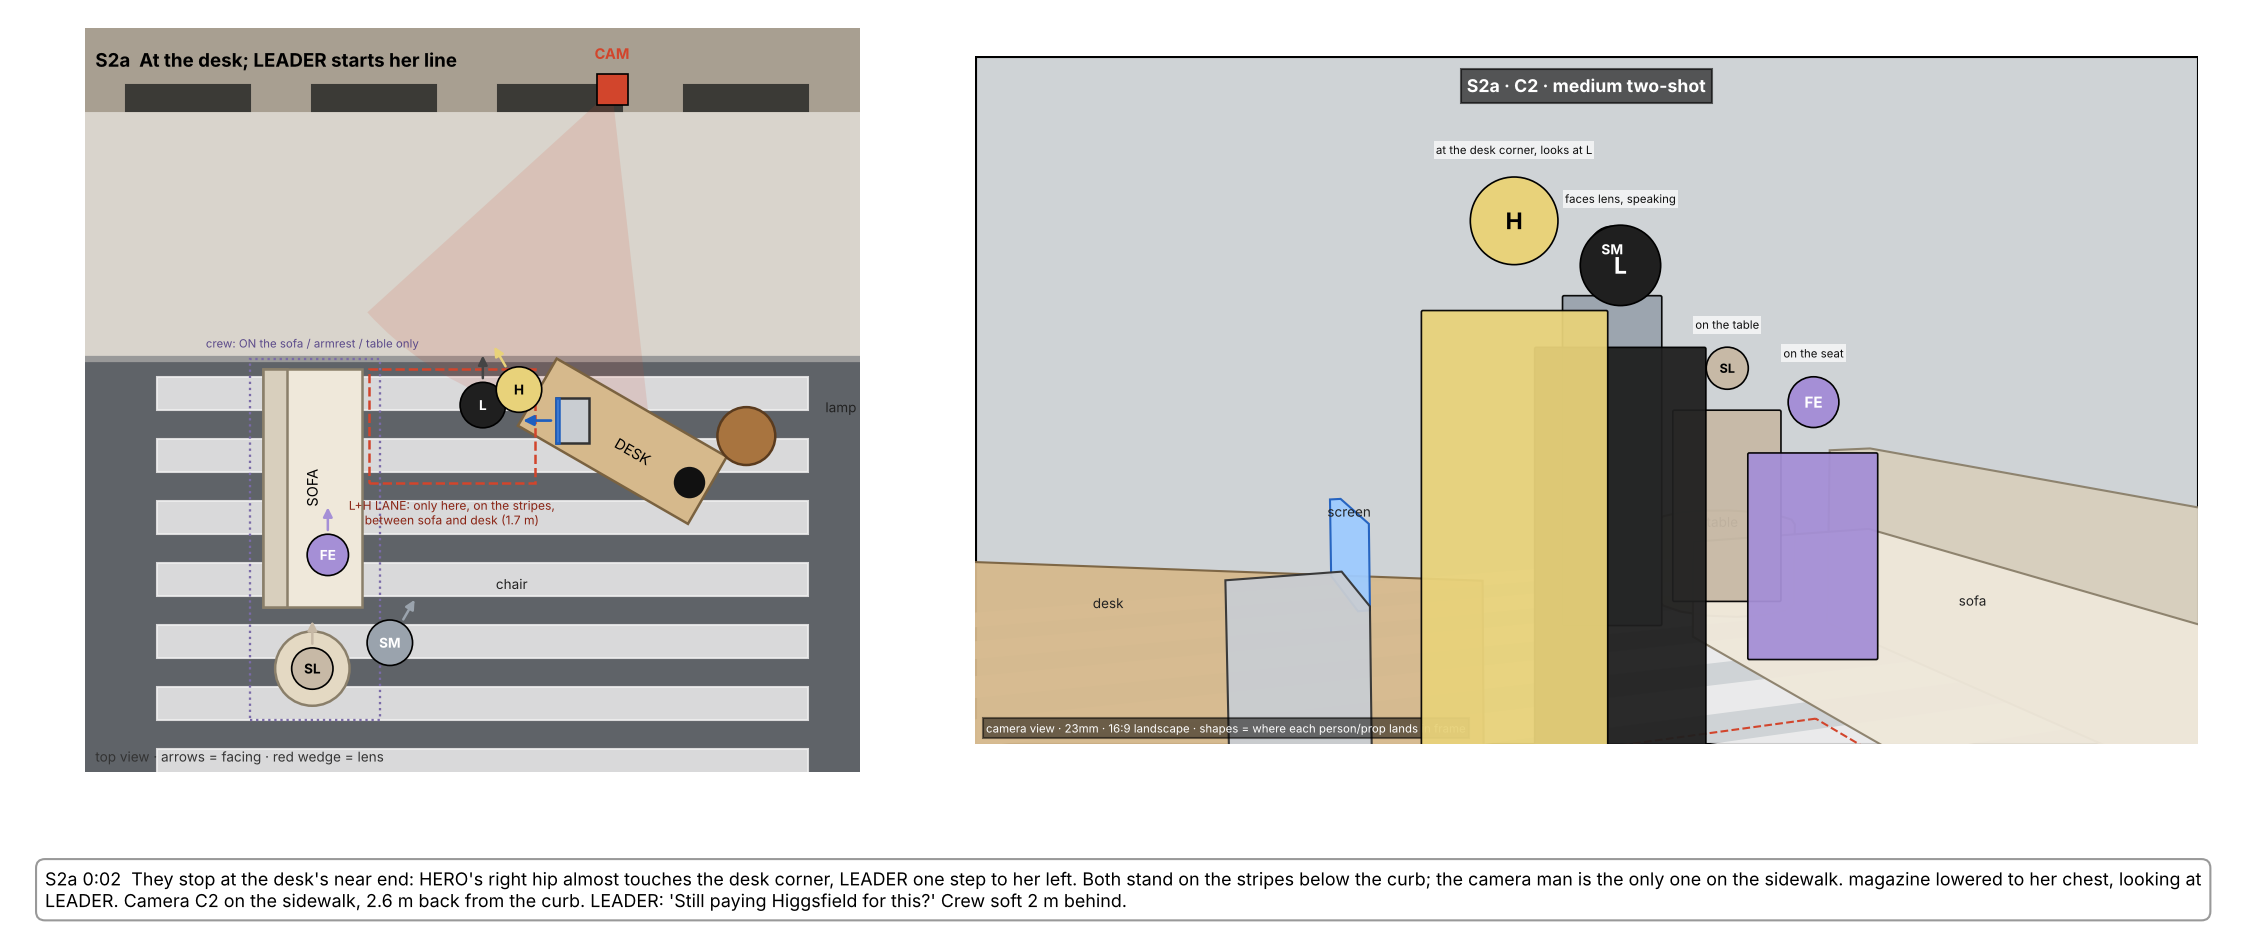
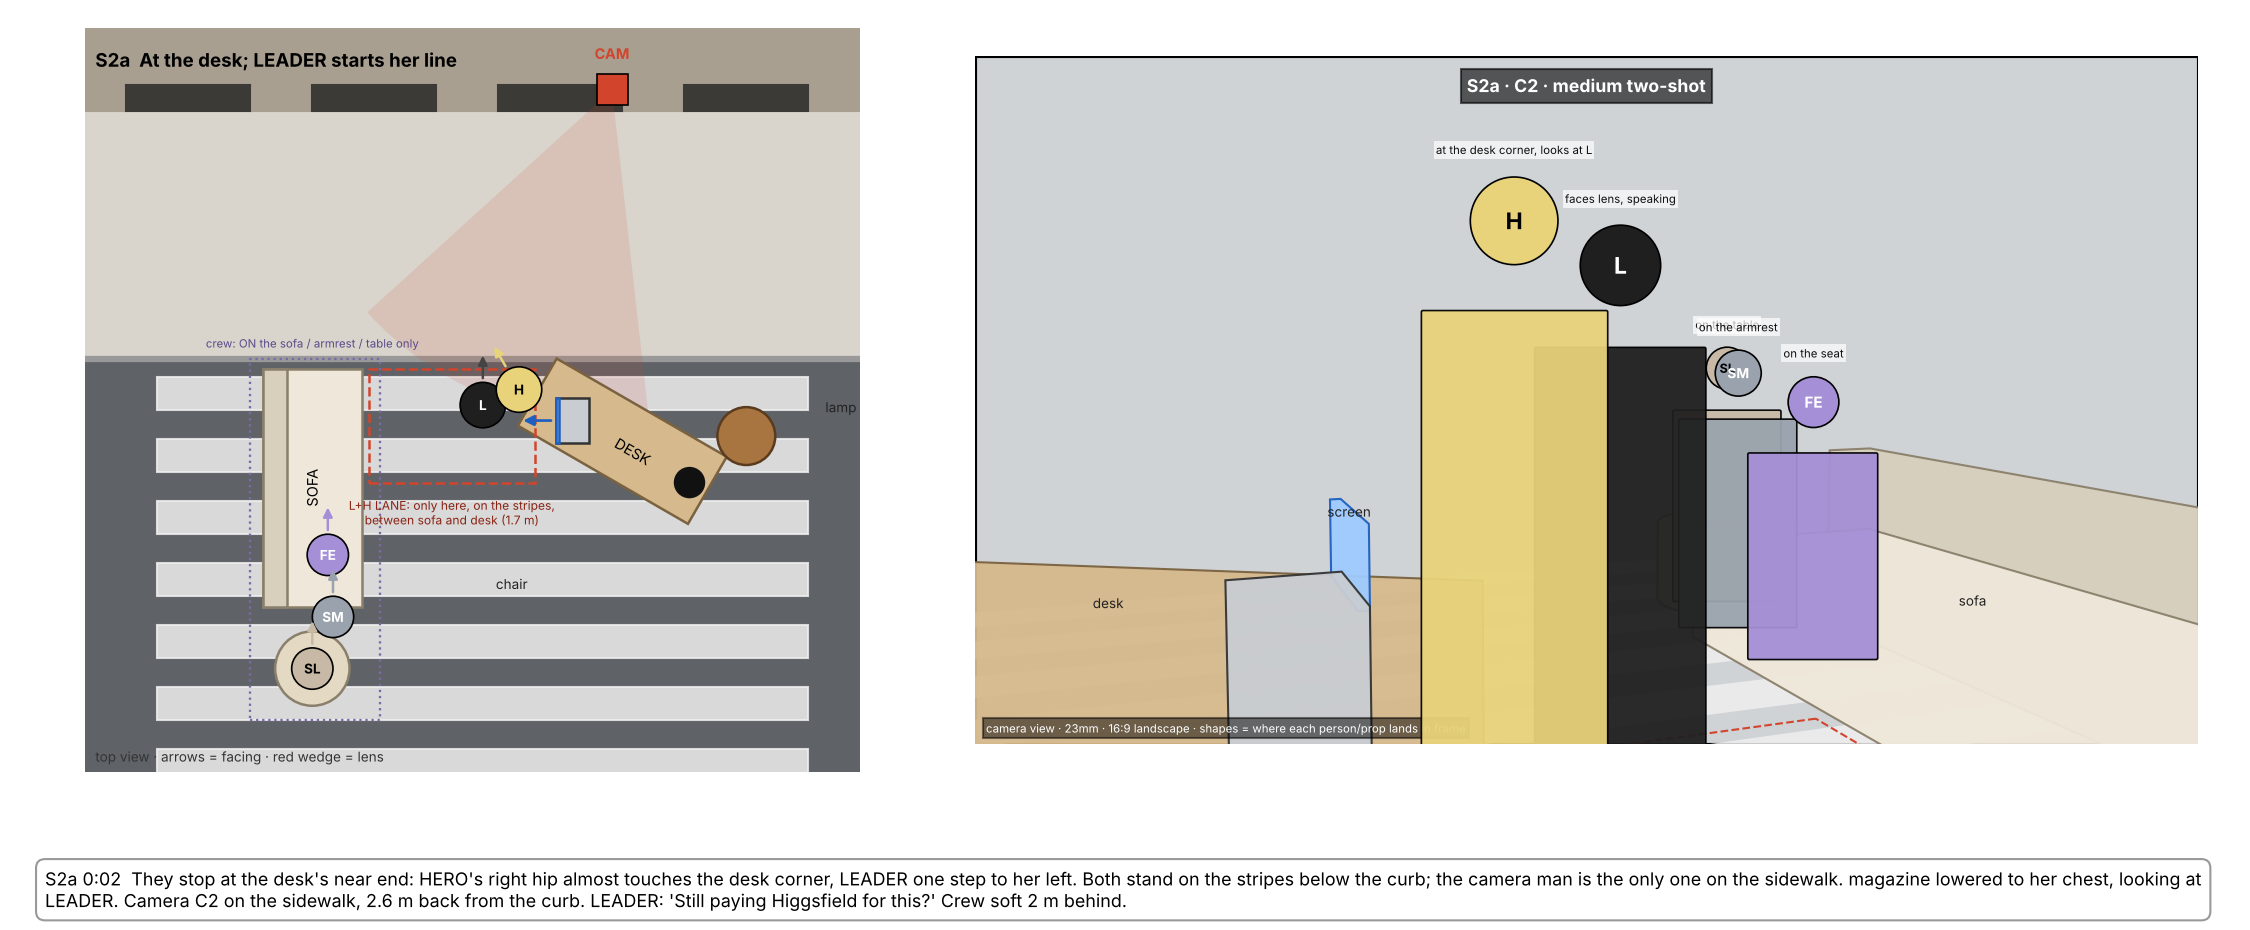
previz: S2a crew fix

Changed region(s): [[0.6844, 0.3118, 0.8089, 0.686], [0.1244, 0.6237, 0.1867, 0.7172]]

diff --git a/prompts/shotdiagrams.py b/prompts/shotdiagrams.py
@@ -249,7 +249,7 @@ SHOTS = [
   "S2a 0:02  They stop at the desk's near end: HERO's right hip almost touches the desk corner, LEADER one step to her left. Both stand on the stripes below the curb; the camera man is the only one on the sidewalk. "
   "magazine lowered to her chest, looking at LEADER. Camera C2 on the sidewalk, 2.6 m back from the curb. LEADER: 'Still paying Higgsfield for this?' Crew soft 2 m behind.",
   [P("L", 2.85, -0.45, "stand", 90, "faces lens, speaking"), P("H", 3.2, -0.3, "stand", 120, "at the desk corner, looks at L"),
-   FE_home, P("SM", 1.95, -2.75, "stand", 60), SL_home],
+   FE_home, SM_home, SL_home],
   CAM(4.1, 2.6, (2.95, -0.45), z=1.5, pitch=-4, note="C2 · medium two-shot")),
  ("S2b", "Push-in on LEADER",
   "S2b 0:03  While LEADER speaks the camera walks in to 0.8 m: her face and upper body fill the frame, focus on her eyes, proud cute micro-expressions. "
